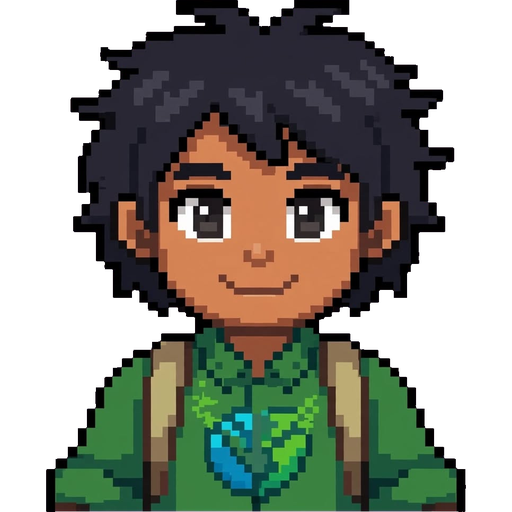
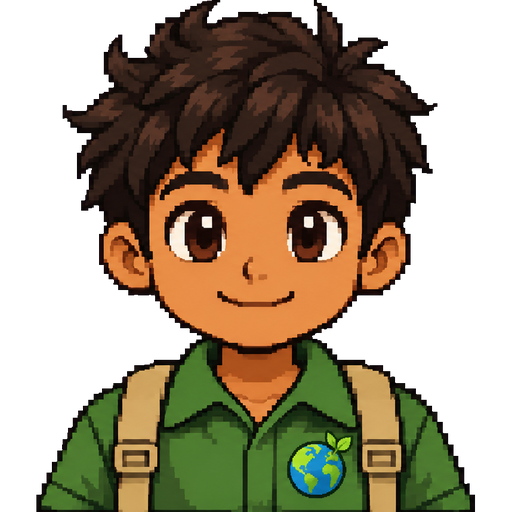
feat: retratos nuevos del niño y la niña en los diálogos, con la ropa de la niña nueva

diff --git a/tools/arte/procesar.py b/tools/arte/procesar.py
@@ -261,17 +261,21 @@ def guardianes() -> None:
         fps_arriba=12.0,
     )
     nina_aerea()
-    # Retratos de los diálogos: niño a la izquierda, niña a la derecha; en un cuadrado, pegados abajo.
-    rgba = quitar_fondo(cargar("retratos.jpg"))
+    retratos()
+    nina_plataformas()
+    trepar()
+    nadar()
+
+
+def retratos() -> None:
+    """Retratos de los diálogos: niño a la izquierda, niña a la derecha; en un cuadrado, pegados abajo."""
+    rgba = quitar_fondo(cargar("retratos.png"))
     for carpeta, obj in zip(["gara", "nina"], separar_objetos(rgba)):
         busto = recortar(rgba, obj)
         lado = max(busto.size)
         cuadro = Image.new("RGBA", (lado, lado))
         cuadro.alpha_composite(busto, ((lado - busto.width) // 2, lado - busto.height))
         guardar(cuadro.resize((512, 512), Image.Resampling.LANCZOS), ASSETS / "characters" / carpeta / f"{carpeta}_retrato.png")
-    nina_plataformas()
-    trepar()
-    nadar()
 
 
 # ---------------------------------------------------------------- Valle (mapa aéreo)
@@ -950,7 +954,7 @@ def frutales():
         objetos("granja_platillos2.png", ["guacamole", "agua_limon", "ate_guayaba"], "ui/granja")
 
 
-GRUPOS = {"frutales": frutales, "caminos": caminos, "animales_granja": animales_granja, "decoraciones": decoraciones, "granja": granja, "animales_valle": animales_valle, "casa": casa, "guardianes": guardianes, "valle": valle, "zona1": zona1, "personajes": personajes, "ui": ui, "tactil": tactil, "nina_aerea": nina_aerea, "filtro": puzzle_filtro, "zona2": zona2, "bitacora": bitacora, "zona3": zona3}
+GRUPOS = {"frutales": frutales, "caminos": caminos, "animales_granja": animales_granja, "decoraciones": decoraciones, "granja": granja, "animales_valle": animales_valle, "casa": casa, "guardianes": guardianes, "valle": valle, "zona1": zona1, "personajes": personajes, "ui": ui, "tactil": tactil, "nina_aerea": nina_aerea, "retratos": retratos, "filtro": puzzle_filtro, "zona2": zona2, "bitacora": bitacora, "zona3": zona3}
 
 if __name__ == "__main__":
     for nombre in sys.argv[1:] or GRUPOS:
